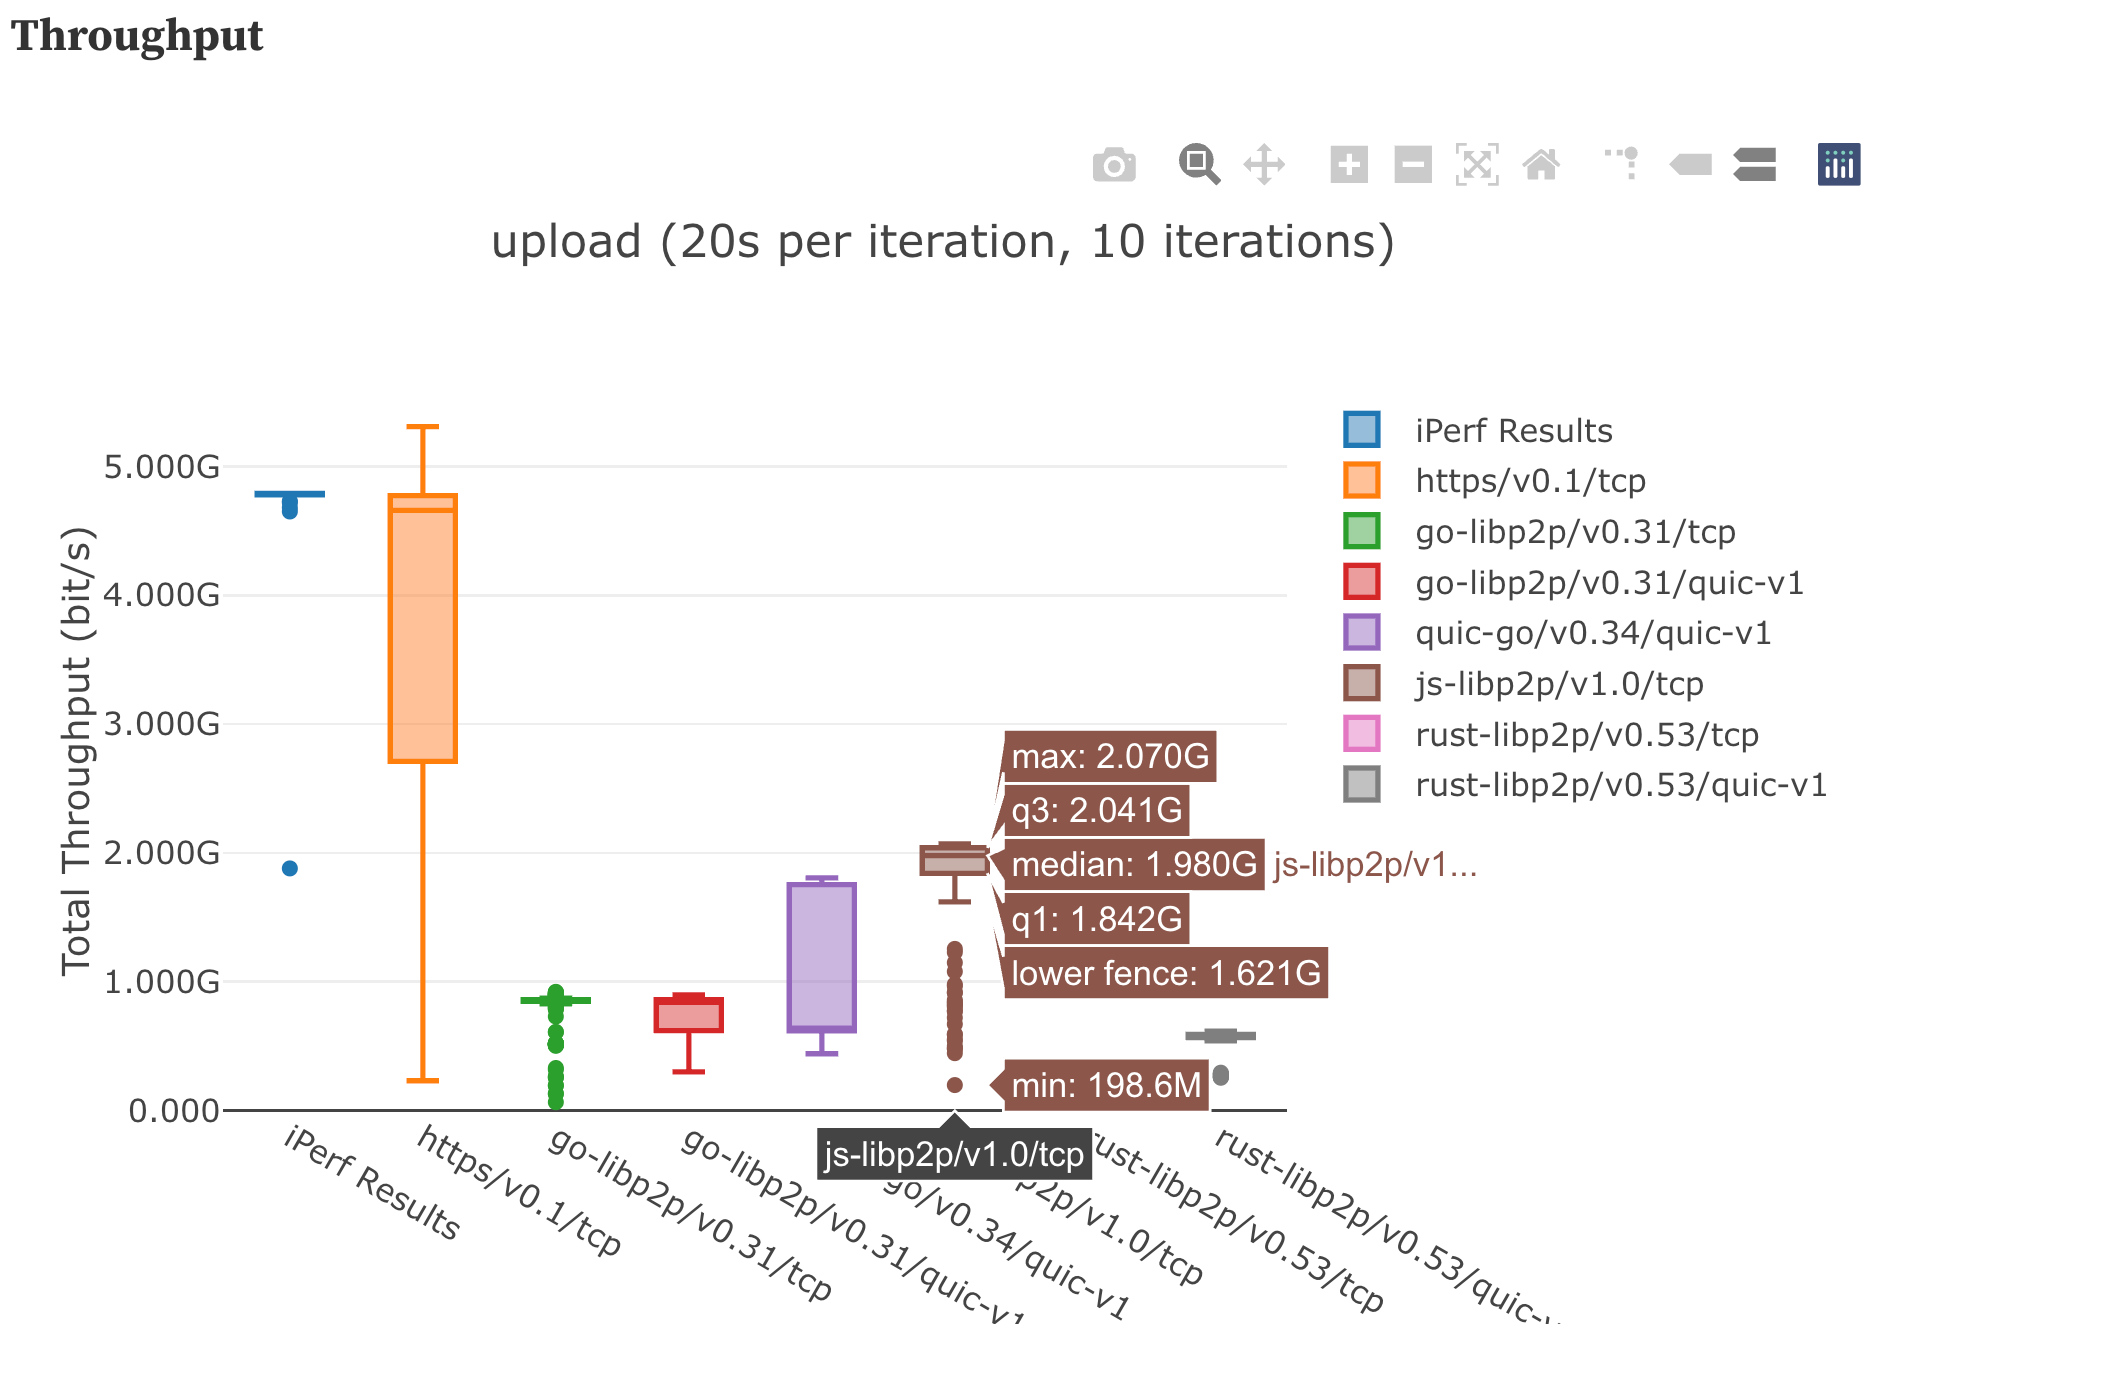
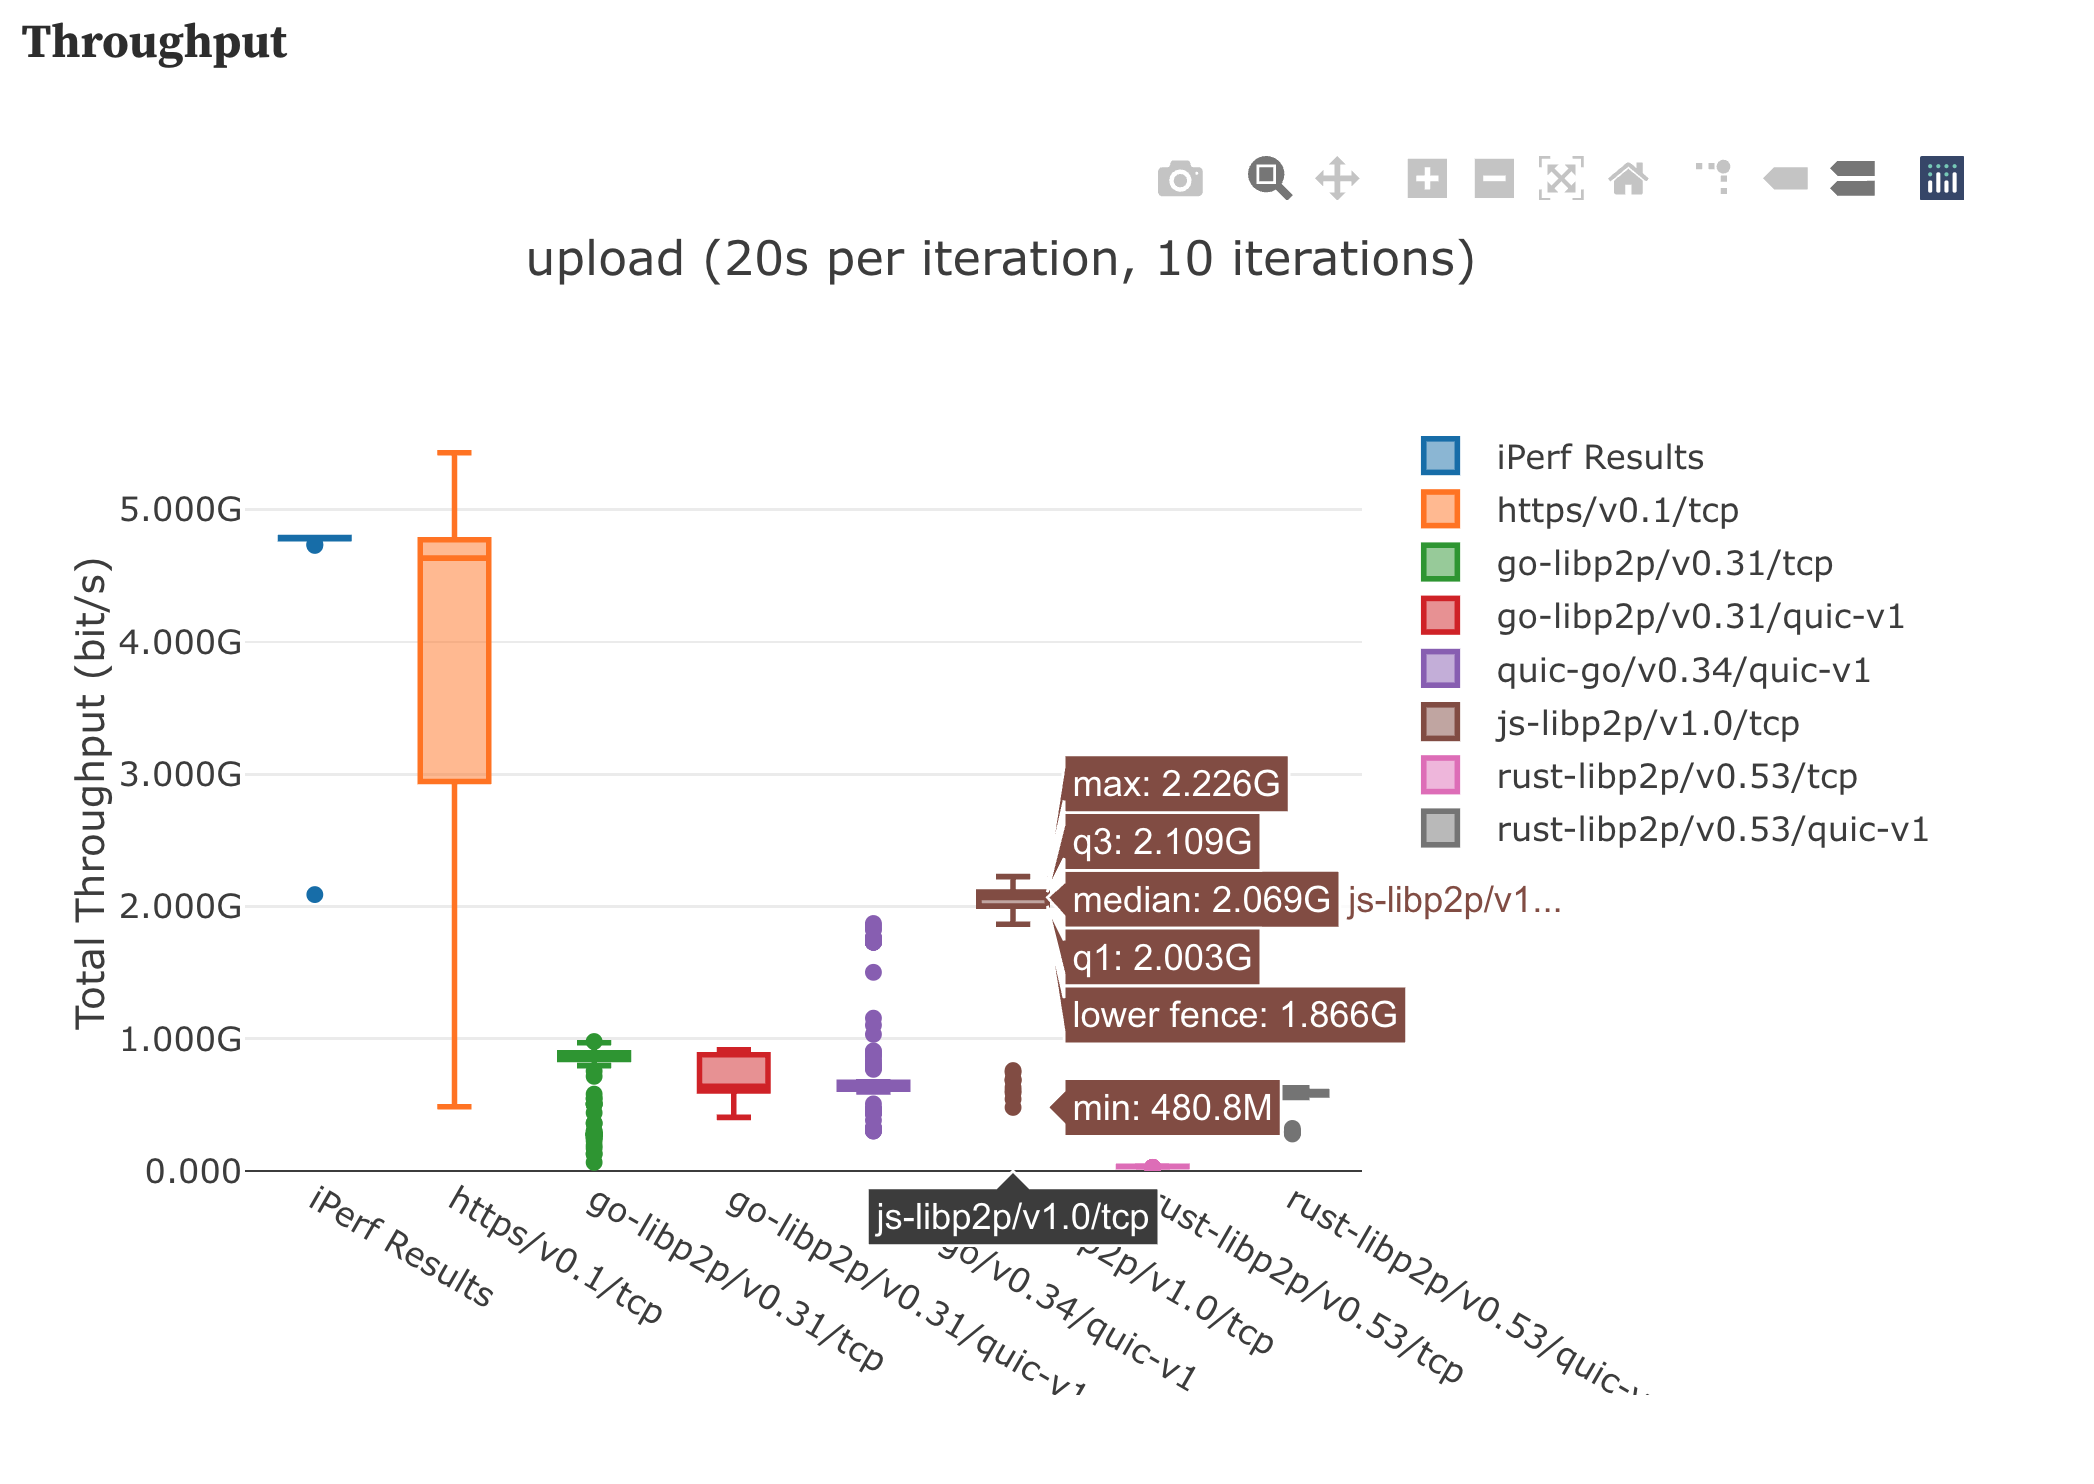
update performance improvement graphics + use American English

diff --git a/src/_blog/js-libp2p-v1.md b/src/_blog/js-libp2p-v1.md
@@ -19,9 +19,9 @@ js-libp2p has been used in production for many years in IPFS and [Ethereum](http
 
 # What's new? 🤩
 
-## Smart Dialling
+## Smart Dialing
 
-One of the major inefficiencies we recognized was in the dialling of peers; particularly in the browser. Some peers were being dialled on the same address multiple times despite having recent failures, and some peers were being dialled when they were not even online. Dials were also being wasted on peers on unreachable parts of the network, as in the scenario where IPv6 is not supported. This excessive dialling and wasted resources lead us to the development of smart dialling, which is a dialling strategy that is more aware of the network topology and the reachability of the multiaddrs it is dialling. Smart dialling is able to make intelligent decisions about which peers to dial, and when to dial them. This has led to a significant reduction in the number of dials made, and has also led to a significant reduction in the number of failed dials. This has resulted in a much more efficient network, and better peer management.
+One of the major inefficiencies we recognized was in the dialing of peers; particularly in the browser. Some peers were being dialled on the same address multiple times despite having recent failures, and some peers were being dialled when they were not even online. Dials were also being wasted on peers on unreachable parts of the network, as in the scenario where IPv6 is not supported. This excessive dialing and wasted resources lead us to the development of smart dialing, which is a dialing strategy that is more aware of the network topology and the reachability of the multiaddrs it is dialing. Smart dialing is able to make intelligent decisions about which peers to dial, and when to dial them. This has led to a significant reduction in the number of dials made, and has also led to a significant reduction in the number of failed dials. This has resulted in a much more efficient network, and better peer management.
 
 ## Circuit Relay v2
 
@@ -65,7 +65,7 @@ We've made a variety of performance improvements and optimizations to js-libp2p 
 The [perf protocol](https://github.com/libp2p/specs/blob/master/perf/perf.md) was created to help us analyze performance libp2p implementations through client-driven benchmarks. This revealed a variety of performance issues, and subsequently, allowed us to make a variety of optimizations. You can read more about the specifics of the test setup [here](https://github.com/libp2p/test-plans/tree/master/perf) but essentially two libp2p nodes are spun up on different AWS servers, and they then send data to each other continously over a period of time. The data is then analyzed to determine the performance of the libp2p implementation, you can view these visualizations on our [performance dashboard](https://observablehq.com/@libp2p-workspace/performance-dashboard). Here are some of the optimizations we made based on the results of the perf protocol:
 
 ### Reducing latency
-On average 60% improvement in the time it takes to establish a connection between two nodes.
+On average 80% improvement in the time it takes to establish a connection between two nodes.
 
 <div class="container" style="display:flex; column-gap:10px; justify-content: center; align-items: center;">
     <figure>
@@ -77,7 +77,7 @@ On average 60% improvement in the time it takes to establish a connection betwee
 </div>
 
 ### Increasing throughput
-We've been continously imnproving the throughput of js-libp2p, and currently js-libp2p has the highest throughput of any libp2p implementations averaging 1.9GB/s on both uploads and downloads!
+We've been continously imnproving the throughput of js-libp2p, and currently js-libp2p has the highest throughput of any libp2p implementations averaging 2.06GB/s on both uploads and downloads!
 
 <div class="container" style="display:flex; column-gap:10px; justify-content: center; align-items: center;">
     <figure>
